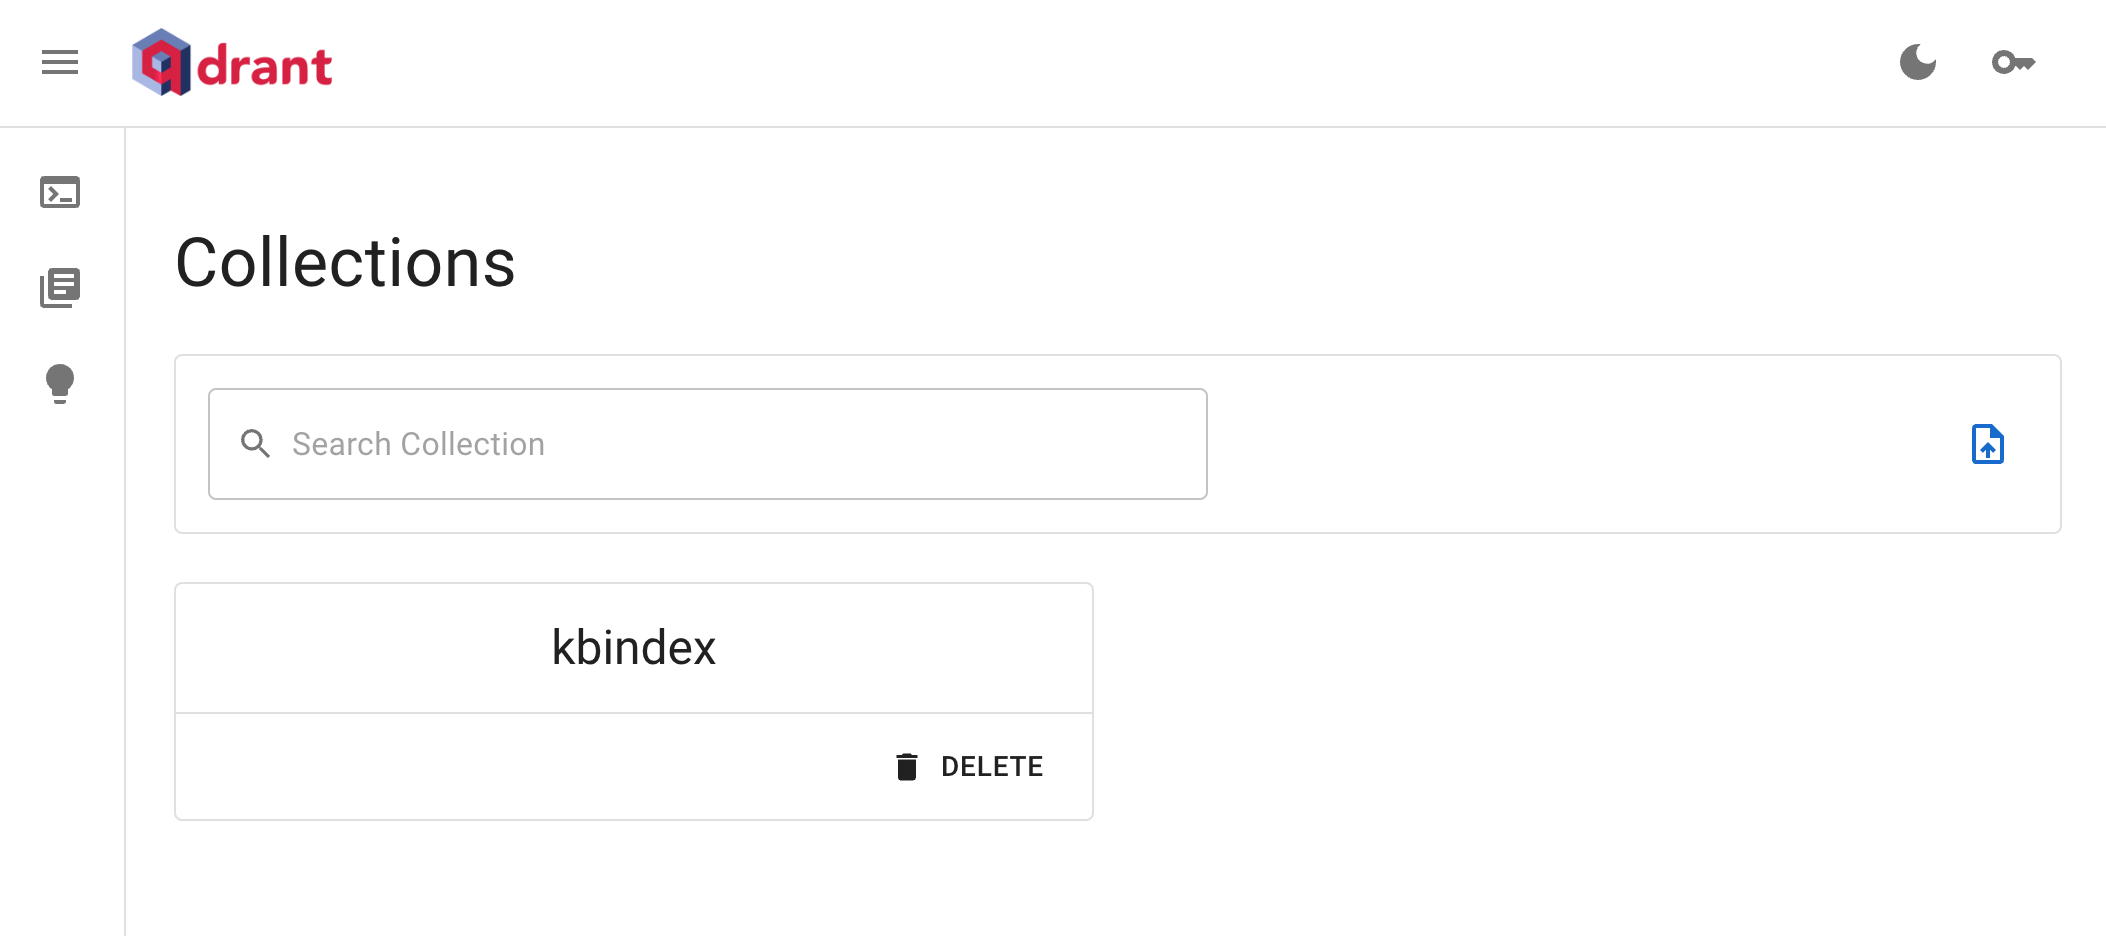
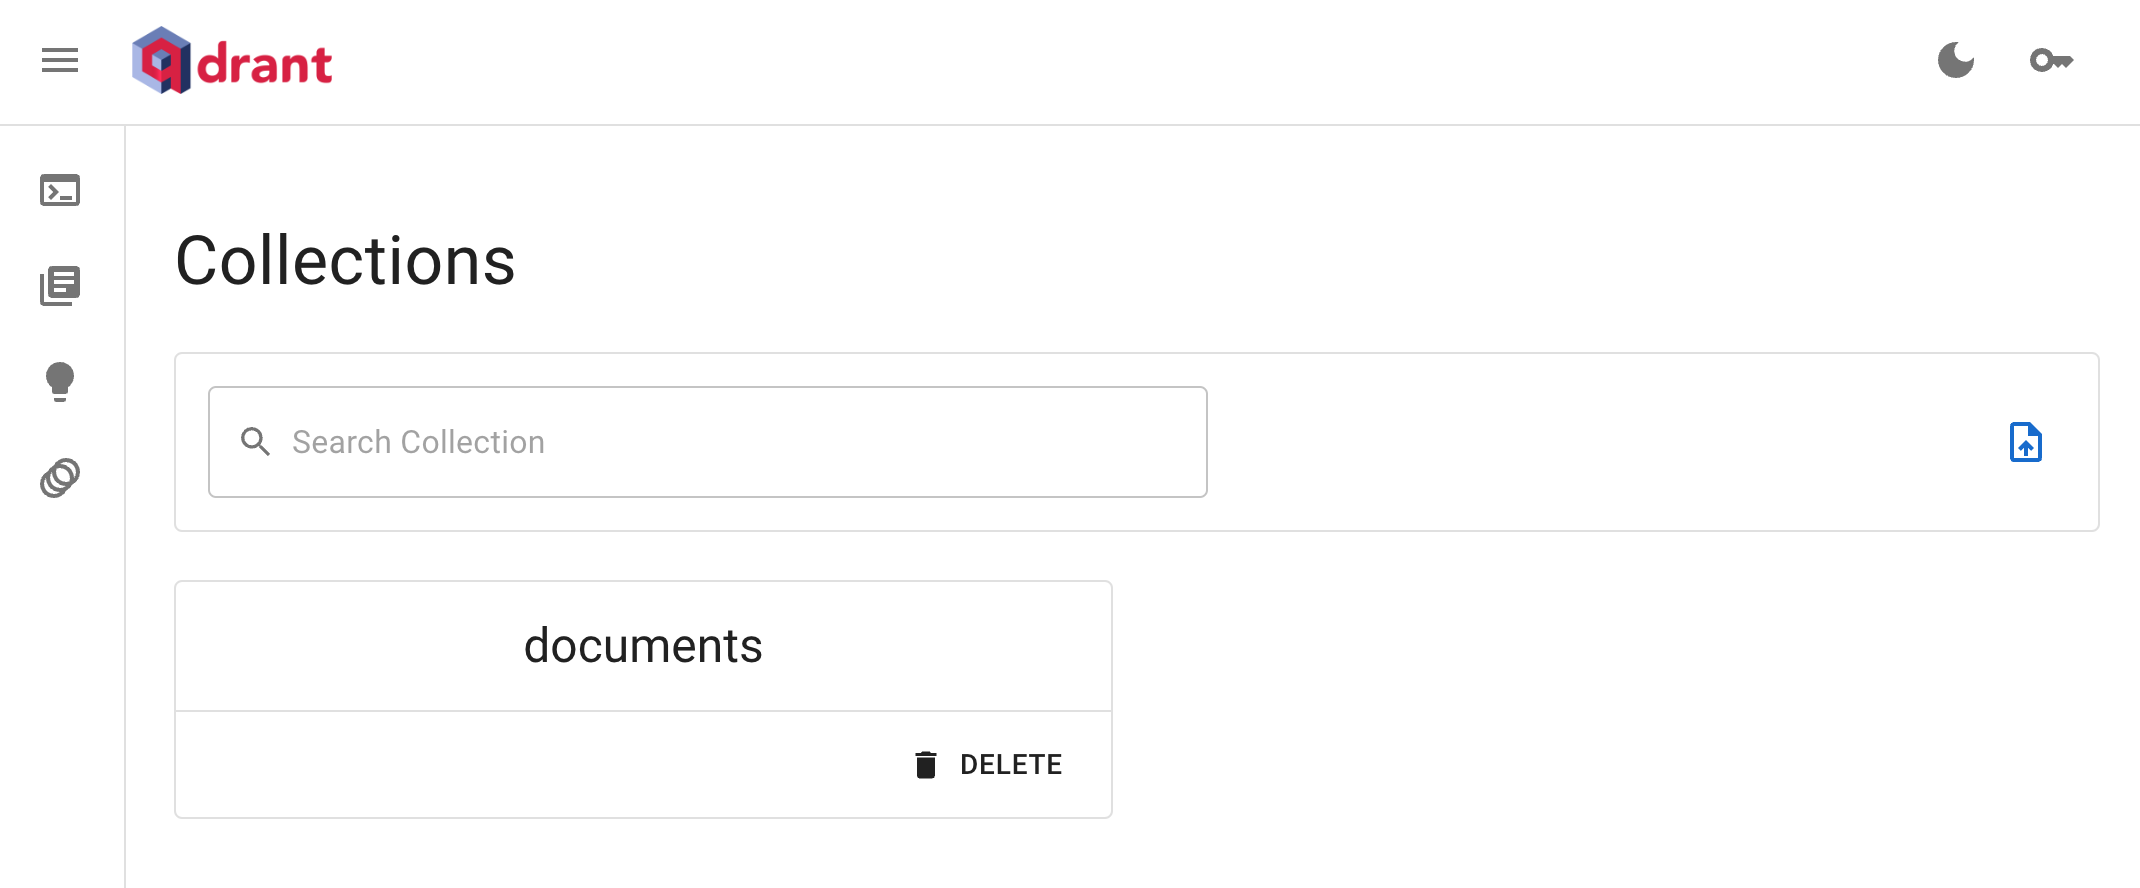
docs: fix collection name

diff --git a/docs/sections/qdrant/05-ingestion.md b/docs/sections/qdrant/05-ingestion.md
@@ -101,7 +101,7 @@ Open the Qdrant dashboard again by opening the following URL in your browser: [h
 
 </div>
 
-You should see the collection named `kbindex` in the list:
+You should see the collection named `documents` in the list:
 
 ![Screenshot of the Qdrant dashboard](./assets/qdrant-dashboard.png)
 
